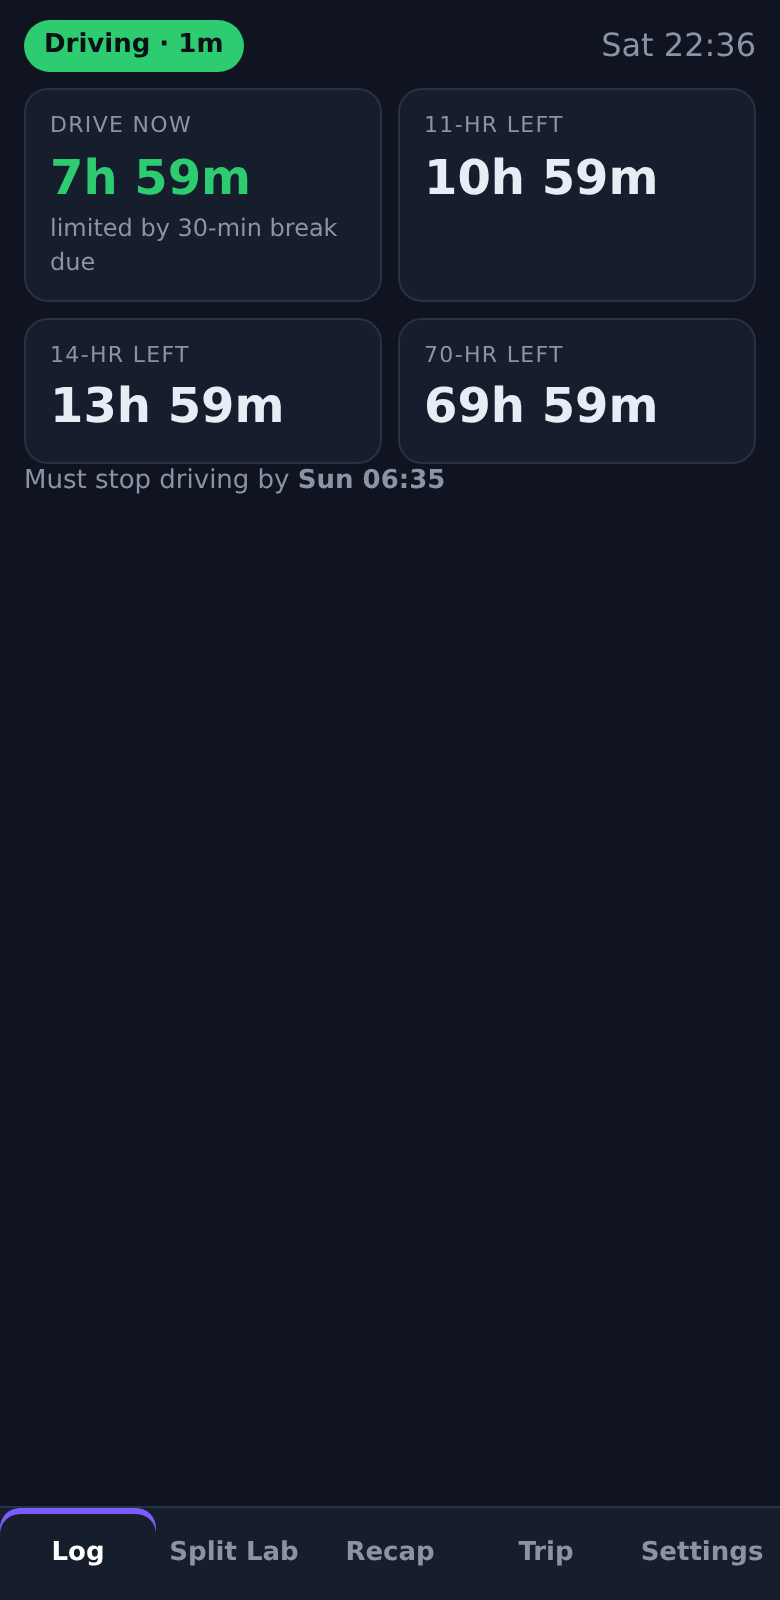
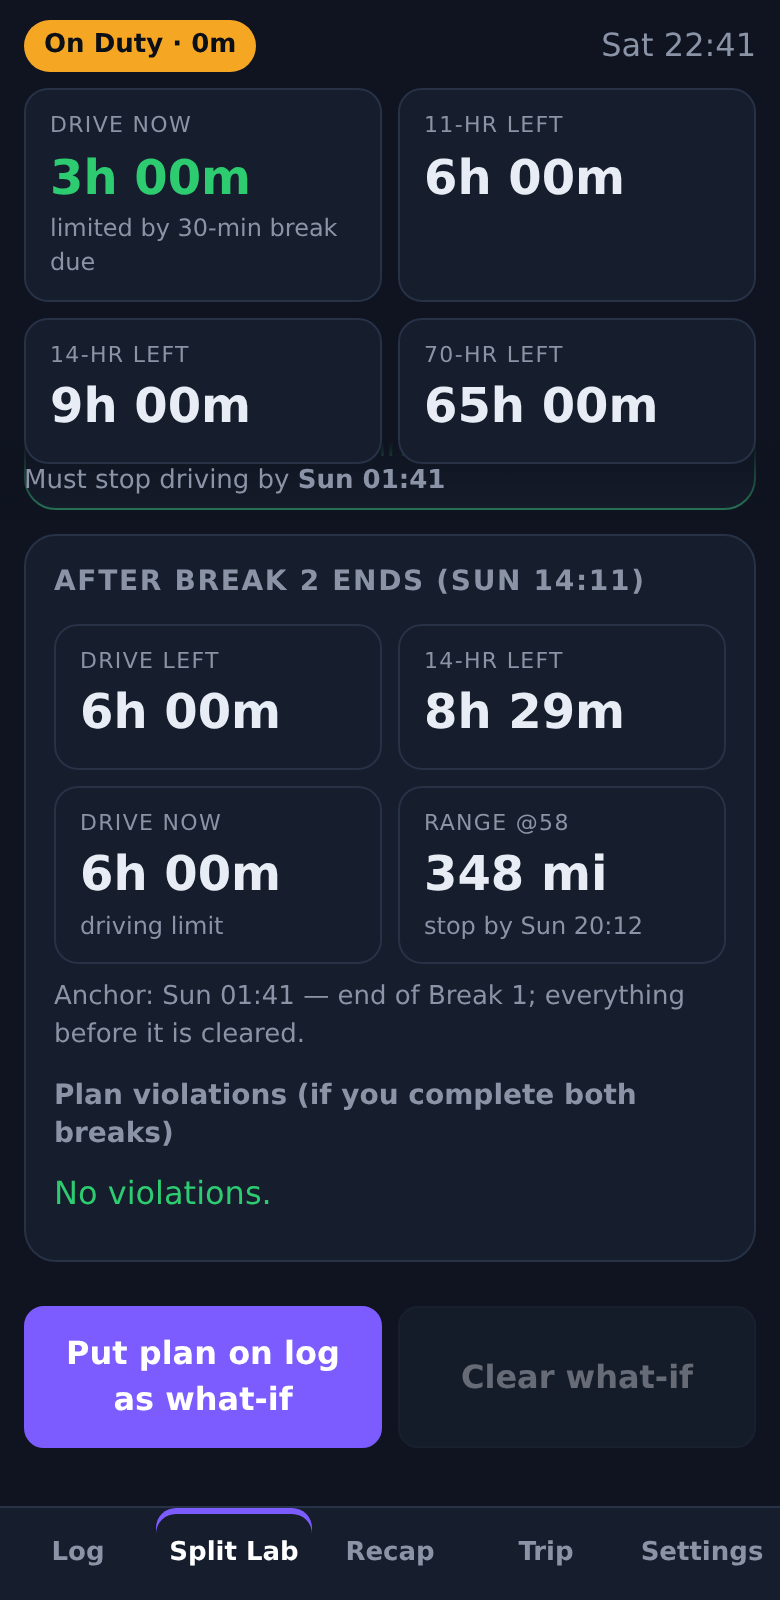
Launch kit: personal Facebook post + screenshots

diff --git a/docs/BOUNTY-LAUNCH-KIT.md b/docs/BOUNTY-LAUNCH-KIT.md
@@ -123,6 +123,47 @@ Things NOT to claim: "the only" anything (splitsleepercalc is careful and curren
 
 ---
 
+## Post 4 — Personal Facebook page (friends & family; the ask is "share with a driver you know")
+
+Attach: `docs/screenshots/split-lab.png` and `docs/screenshots/trip.png` (phone screenshots of the live app).
+
+---
+
+I built something, and I need a favor from anyone who knows a truck driver.
+
+Truckers live by a clock. Federal rules say how many hours you can drive, how long your workday can be, and how much rest you need — and the rules for "splitting" your sleep into two chunks are so confusing that drivers argue about them on forums every single day. The device in the truck records what you *did*. It doesn't tell you what happens if you take a 3-hour nap now and sleep 7 hours tonight. Guess wrong and you're either stuck at a truck stop with hours you didn't know you had, or in violation and looking at a fine.
+
+So I built a free tool that answers the "what if." You slide the bars — nap here, drive this long, sleep this long — and it shows what your clocks look like when you wake up, whether the split is legal, and how many miles you can cover before you need to be parked. No account, no subscription, no tracking. It runs on your phone from a web link.
+
+It's called HOS Sandbox: https://hossandbox.github.io/
+
+Here's the favor. I'm one person, and I built this by reading the actual federal regulations — not by driving a truck for twenty years. Before I put it on the App Store I want real drivers to try to break it. **I'm paying $10 to any CDL driver who compares it to their truck's logging device for a day and tells me what they see, plus $5 for every bug they find first.** All the details are at the link.
+
+If you know a driver — a friend, a cousin, your dad, the neighbor with the Peterbilt in the driveway — please send this to them or tag them here. That's all I need.
+
+And if you're wondering why I care about trucking rules: someone has to make the tools that make hard jobs a little easier. This one's mine. 🚛
+
+---
+
+**Shorter variant (if the long one feels like too much for your page):**
+
+I built a free app for truck drivers and need help testing it. 🚛
+
+It answers the question every driver asks and no logging device does: "if I nap 3 hours now and sleep 7 tonight, what do my hours look like tomorrow?" Slide the bars, see your clocks, see how far you can go before you have to park. Free, no account, nothing tracked.
+
+https://hossandbox.github.io/
+
+Know a CDL driver? Send it to them — I'm paying $10 to compare it against their ELD for a day, and $5 per bug they find. Tag them below. Thank you!
+
+---
+
+Tips for the personal page:
+- Post the long version once with both screenshots; use the short one if you re-share in a week.
+- Reply to every comment from a driver with the same line: "Thank you — the report form is the 🐞 button in the app."
+- If a friend asks "what's an HOS?": Hours of Service — the federal driving-time rules.
+
+---
+
 ## Modmail (send before posting on r/Truckers)
 
 Hi mods — I'd like to post about a free split-sleeper/recap calculator I built (web app, not an ELD, no account, no ads, no data collection). I'm offering drivers a small payment ($10 + $5/bug) to test it against their ELDs and report mismatches. I know this brushes against the promotion rules — happy to post it however you prefer (weekly thread, flair, no link in the body, whatever works). Draft is below. Thanks for the community.
